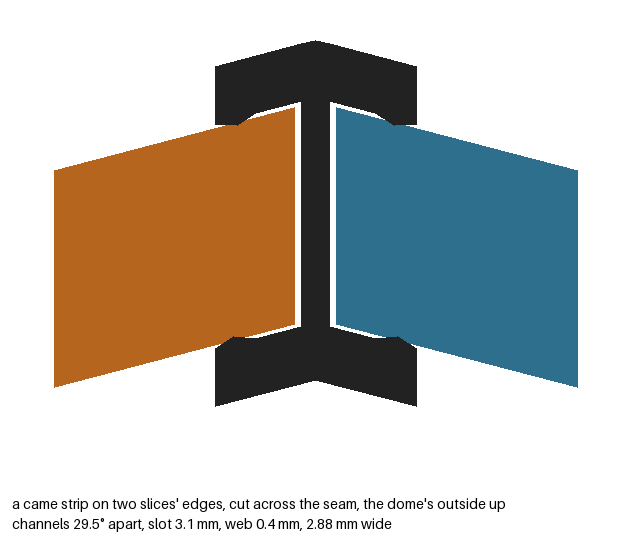
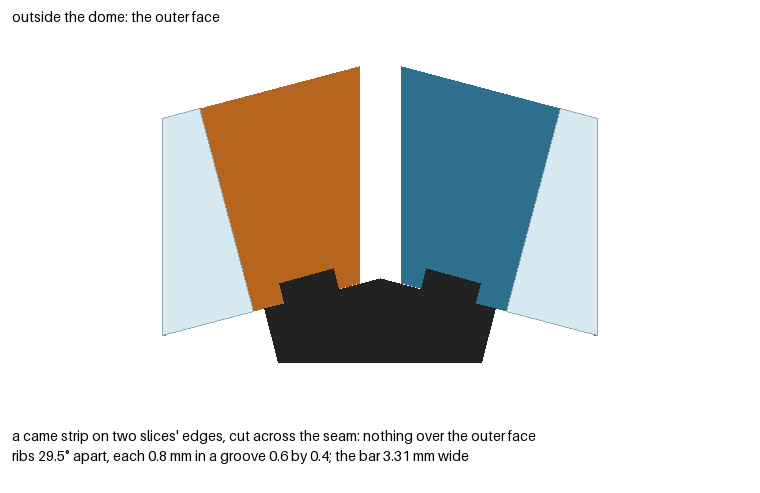
docs: the seam held from the inside, its section and two placed slices, as run at 1760dd2
Refs mqucifer/print-shop#190

Changed region(s): [[0.0602, 0.0609, 0.9334, 0.7606], [0.0, 0.8519, 0.813, 1.0], [0.0, 0.0304, 0.3011, 0.0609]]

diff --git a/docs/bench.md b/docs/bench.md
@@ -165,6 +165,11 @@ An answer with no second check behind it becomes `NO ANSWER`, whatever it first 
   - `ring` makes the hem ring, the top's seat and its cap; all 36 points at the hem and 36 at the top are inside a ring, and each part prints with no support.
   - `seam` on slices 1 and 2 with the strips and the rings: the faces 0.6000 mm apart and 0.0000° off parallel, nothing shared, 4 of 4 strips round both edges, a press of 0.050 mm, no flange over an opening, and both slices' edges in the grooves, in 3 s.
   - The controls: two slices built with no seam are `INTERFERE`, 29.54° off parallel; a neighbour built with no gap is `FAIL`, 0.300 mm apart; a gap of 1.6 mm is refused at 8 places; a flange of 3.5 mm is refused by `came`, and made anyway it's found over openings at 264 places; strips for a 2.4 mm frame press 0.650 mm in, `INTERFERE`; rings for a 2 mm frame share 260.9 mm³, `INTERFERE`.
+- **Measured, the seam held from the inside** (`~/print-shop/proofs/m20-came-inside/came-inside.txt`, made by `run.sh` beside it, in `print-shop/bench:0.15` on the Mac at 1760dd2, 2026-11-20). On the same three-band dome, 12 slices of 4 rows, and on the six-band dome below, of 7 rows:
+  - `build --seam` makes each frame in 5 to 9 s with a groove along each of 4 lengths of both edges (7 on the six-band dome): 0.45 mm of lead beside a pocket as before (0.4475 on the six-band dome), 0.57 mm between a groove and the nearest opening, 0.4 mm of lip over it, and every point round every groove read back as cut. `capture` (least lip 0.949 mm), `pause` and `thin --one-body` pass on both slices of both domes.
+  - `came` makes 4 strips, 53.4 to 22.4 mm long, their ribs 29.54° to 12.65° apart, each rib 0.8 mm in a groove of 0.6, the bar 3.31 mm wide and 0.8 mm proud of the inner face; nothing is under 0.8 mm, each lies on its bar (71.8 mm² at the least) with nothing in the air and no bridge, and its ribs read back within 0.0000°. On the six-band dome the 7 mm strip stands on 20.4 mm², where the H stood on 11.6.
+  - `seam` on slices 1 and 2 with the strips and the rings: the faces 0.6000 mm apart, nothing shared, all 4 strips holding both slices by a rib in each groove, a press of 0.100 mm, nothing over either outer face by corners or by points, nothing over an opening, and the edges in the grooves; on the six-band dome all 7 strips, with the top ring only, as its hem is scalloped.
+  - The controls: the H (`came --hold h`) is `FAIL`, 0.85 mm proud of the outer face and 0.19 mm at its narrowest, and `seam` finds all its strips over the outer face, 0.85 mm proud and over 1.16 mm of it; a lip of 0.9 is refused at 8 places (14 on the six-band dome), a groove 0.27 mm from an opening, with a lead of 1.7 mm needed; strips made for a gap of 1.0 press 0.300 mm in, `INTERFERE`; a bar of 3.5 mm is refused by `came`, and made anyway it's found over openings at 532 places.
 - **Measured** on a dome of the planned size, 200 mm across and 130 tall with 12 repeats and one band of each pattern (`~/print-shop/proofs/m20-dome/six/six.md`, in `print-shop/bench:0.15` on the Mac): `dome` makes 228 pieces in 2 s, 85.19% glass on the dome by the outlines and 85.21% by the pixels. `flatten` cuts 12 slices in 2 s, each 49.9 by 159.0 mm in 7 rows, all the same map; its folds bend 4.3° to 16.0°; bent back, corners, flats and edges are within 0.00001 mm; the rows stand 4.17 mm from the curve at the furthest, in the hem's row. Slice 1 has 19 pieces: `check` passes in 2 s with no rule break; `build --border 0.7` makes one frame of 348 faces and 19 panes in 6 colours in 2 s; `capture` holds all 19 (least lip 0.949 mm), and `pause`, `thin --one-body`, `light` and `info` each answer in under 6 s.
 - **Limits.** No model has run these yet. A map's panes are one thickness, and a round panel isn't traced. A dome's surface is the one profile, and its slices are flat across: more slices, or more lines round the dome, are what bring them nearer the curve. Bending a slice and the lamp's fitting are still to come: the top ring's hole is a stated figure until the fitting is chosen, and its seat and cap close the dome's top but for that hole. A scalloped hem has no hem ring yet. `seam` reads two slices, not all of a dome's.
 

diff --git a/docs/pieces.md b/docs/pieces.md
@@ -208,7 +208,7 @@ JSON, in millimetres, x to the right and y up from the panel's bottom-left:
 - **Verdict:** `OK` where the faces stand the gap apart within 0.05 mm, nothing is shared, every strip holds both slices and lies over neither outer face nor any opening, and the edges are in the grooves. `INTERFERE` where slices, strips or rings share more than the grip. `FAIL` where the faces stand another gap apart, a strip lies over an outer face, doesn't hold both slices or lies over an opening, or an edge isn't in a groove. Two slices that aren't neighbours are `NO ANSWER`.
 - **It writes the two slices as placed** (`placed`, and each slice's own file beside it), for `render`:
 
-![Two neighbouring slices of a twelve-slice test dome, bent by their folds and placed in the hem ring and the top ring's seat and cap, seen from outside with nothing on their seam, and from inside with the came strips along it](pieces-seam.png)
+![Two neighbouring slices of a twelve-slice test dome, bent by their folds and placed in the hem ring and the top ring's seat and cap, with the came strips along their seam: from the side, on the outer faces, the seam is the two slices' edges, and from above the strips show inside the dome](pieces-seam.png)
 
 - **Second method:** points, with no boolean. Each face's own corners, moved 0.02 mm into their own row, are asked whether they're inside the other row too; and the nearest the two rows come is read by OpenCascade's distance between shapes. What lies over an outer face is read again by points 0.3 mm past it, from the slice's edge 2 mm in: apart from the corners' reading is `DISAGREE`.
 - **What it can't read:** how a heated lead line bends. Each row is placed as a rigid flat piece, so they overlap a little at a fold's inner side, and a real seam is as true as its folds are bent.
